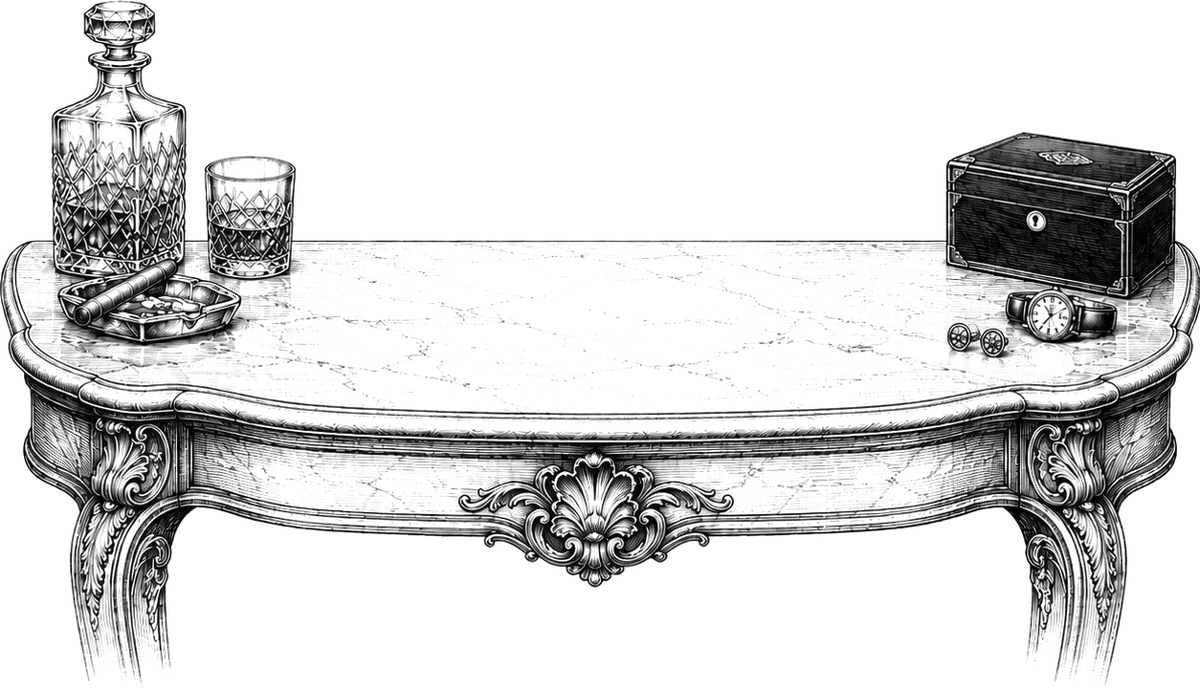
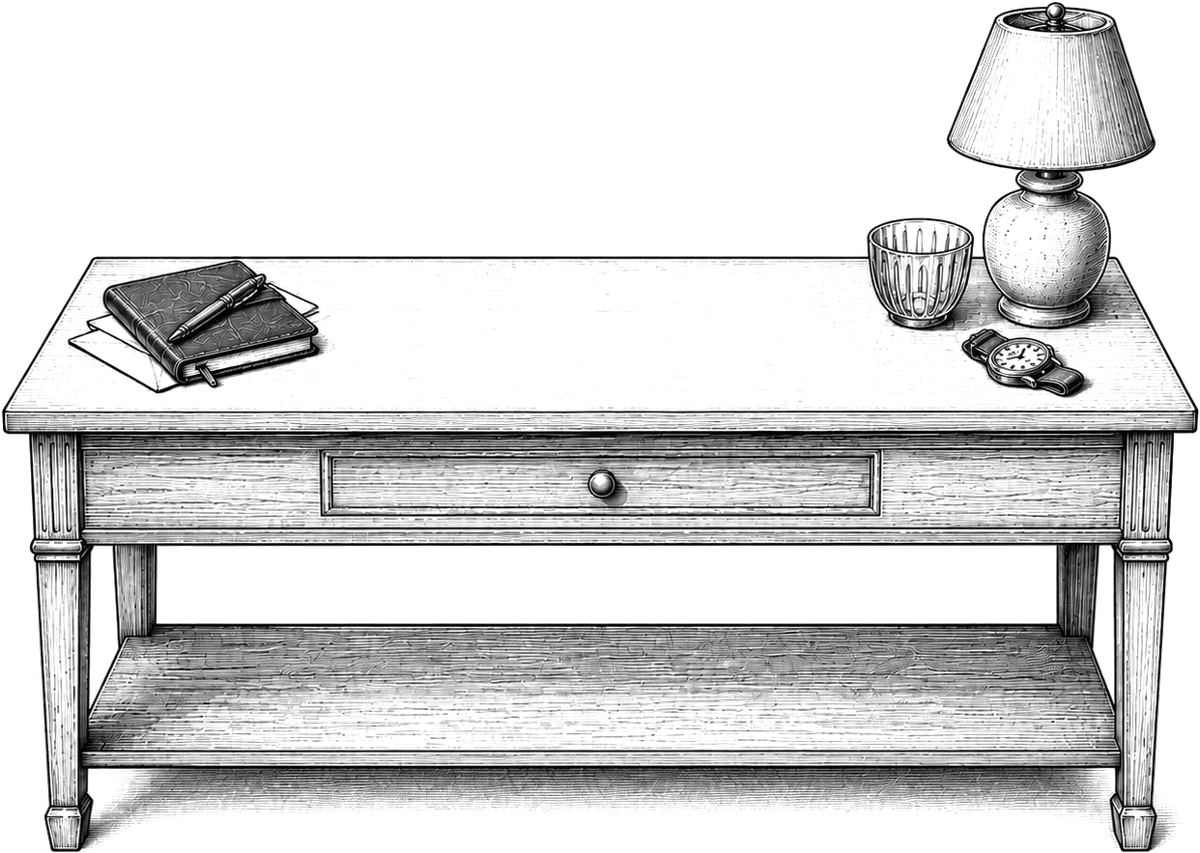
Echange aise/riche + secousse uniquement sur la machine (table fixe)
- swap level_4.png et level_5.png
- shake class deplacee de .lc-stage vers .lc-machine
-> au tirage du levier, seule la machine bascule, table et fade restent fixes

https://claude.ai/code/session_01K5SJ7eQcxdTnekDPP3umYe

diff --git a/src/LastCoin.tsx b/src/LastCoin.tsx
@@ -1019,10 +1019,10 @@ export default function LastCoin() {
         <div className="lc-ability-expl" key="blocked-msg">{t("expl_broke")}</div>
       )}
 
-      <div className={"lc-stage" + (pressed || blockedSpin ? " shake" : "")}>
+      <div className="lc-stage">
       <img src={TABLES[Math.min(classIdx, TABLES.length - 1)]} className={"lc-table t" + Math.min(classIdx, TABLES.length - 1)} alt="" draggable={false} />
       <div className="lc-table-fade" aria-hidden="true" />
-      <div className="lc-machine" ref={machineRef} style={{ aspectRatio: "870 / 950" }}>
+      <div className={"lc-machine" + (pressed || blockedSpin ? " shake" : "")} ref={machineRef} style={{ aspectRatio: "870 / 950" }}>
         <img src={IMG} alt="machine" className="lc-img" draggable={false} />
         <img src={UP_SPR} alt="" className="lc-sp" draggable={false} style={{ left: LEV_UP.left + "%", top: LEV_UP.top + "%", width: LEV_UP.w + "%", height: LEV_UP.h + "%", opacity: pressed ? 0 : 1 }} />
         <img src={COVER_SPR} alt="" className="lc-sp" draggable={false} style={{ left: LEV_COVER.left + "%", top: LEV_COVER.top + "%", width: LEV_COVER.w + "%", height: LEV_COVER.h + "%", opacity: pressed ? 1 : 0 }} />
@@ -1602,7 +1602,7 @@ const CSS = `
 /* Empire : plus grande + descend */
 .lc-table.t7{bottom:-54%;width:178%;}
 /* Bascule seche gauche-droite quand le levier est tire */
-.lc-stage.shake{animation:rocker .26s cubic-bezier(.3,.7,.4,1);transform-origin:50% 100%;}
+.lc-machine.shake{animation:rocker .26s cubic-bezier(.3,.7,.4,1);transform-origin:50% 100%;}
 @keyframes rocker{0%{transform:rotate(0);}22%{transform:rotate(-.55deg);}50%{transform:rotate(.45deg);}78%{transform:rotate(-.15deg);}100%{transform:rotate(0);}}
 .lc-machine{position:relative;width:100%;user-select:none;}
 .lc-burst{position:absolute;left:0;top:0;width:100%;height:100%;pointer-events:none;z-index:5;}